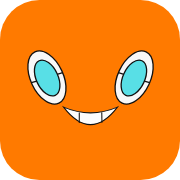
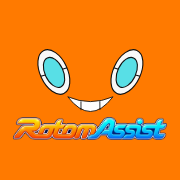
ロゴを置き直したものに差し替え、アイコンを「顔の下にロゴ」に
- ロゴ（白と紺のふち付き）を public/brand/logo.webp に。オレンジの背景でも読めるので黒い帯は外した。元画像は assets/brand/logo-original.png
- アイコン: オレンジの上にロトムの顔、その下にロゴ（app/icon.png 512px、app/apple-icon.png 180px）

Claude-Session: https://claude.ai/code/session_01DxeWjnTQqJBmBJTk9drAmV

diff --git a/app/globals.css b/app/globals.css
@@ -25,8 +25,8 @@ code { font-size: .8rem; word-break: break-all; }
 .app { min-height: 100dvh; }
 main { max-width: 720px; margin: 0 auto; padding: 8px 16px calc(var(--dock-h) + 24px + env(safe-area-inset-bottom)); }
 .topbar { position: sticky; top: 0; z-index: 10; display: flex; align-items: center; justify-content: space-between; max-width: 720px; margin: 0 auto; padding: 10px 16px; background: linear-gradient(var(--bg) 70%, rgba(255, 122, 0, 0)); }
-.logo-wrap { display: inline-flex; align-items: center; background: var(--btn); border-radius: 999px; padding: 7px 14px; box-shadow: 0 2px 8px rgba(60, 25, 0, .2); }
-.logo { height: 26px; width: auto; display: block; }
+.logo-wrap { display: inline-flex; align-items: center; }
+.logo { height: 36px; width: auto; display: block; filter: drop-shadow(0 2px 4px rgba(60, 25, 0, .25)); }
 .icon-btn { width: 44px; height: 44px; padding: 0; border-radius: 50%; display: grid; place-items: center; background: rgba(255, 255, 255, .25); border-color: transparent; color: var(--fg); }
 .icon-btn[aria-expanded="true"] { background: var(--btn); color: var(--on-btn); }
 

diff --git a/app/page.tsx b/app/page.tsx
@@ -517,12 +517,12 @@ function Header({ onSettings, settingsOpen }: { onSettings?: () => void; setting
   );
 }
 
-/** ロゴ（public/brand/logo.webp）。「Rotom」がオレンジなので、背景のオレンジに溶けないよう黒い帯に載せる */
+/** ロゴ（public/brand/logo.webp。元画像は assets/brand/logo-original.png）。白と紺のふち付きなので、オレンジの背景にそのまま載せる */
 function Logo() {
   return (
     <span className="logo-wrap">
       {/* eslint-disable-next-line @next/next/no-img-element */}
-      <img src="/brand/logo.webp" alt="ロトムアシスト" className="logo" width={915} height={120} />
+      <img src="/brand/logo.webp" alt="ロトムアシスト" className="logo" width={831} height={120} />
     </span>
   );
 }

diff --git a/docs/architecture.md b/docs/architecture.md
@@ -58,8 +58,8 @@
 - 聞き取りが「終わった」の知らせ（onend）を返さずに止まることがある。以前は前の聞き取りが残っていると、押しても何もしなかった（2026-10-11 に実機で、6 回目以降に聞かなくなった）。今は、離して 4 秒以内に知らせが来なければ片付け、押したときに前のものが残っていれば捨ててやり直す。指が離れた知らせが来ない場合（pointercancel）も止める。押しっぱなしは 30 秒まで
 - 聞き取りの経過（開始・音声の入り始め・話し始め・離した・終わり方・エラー、読み上げ、開いた端末）を roas.history に kind=event で送る（`/api/history`）。止まった原因を後から調べるため。質問の答えが 25 秒返らなければ打ち切る（「考え中」のままボタンが押せなくなるのを防ぐ）
 - 色: 背景はオレンジ #ff7a00、ボタンは少し薄い黒 #2e2e2e（白い文字）、結果は白いカード。オレンジの上の文字は暗い色（白だと読みにくい）。攻撃側は赤、防御側は青
-- 画面の並び: 上に固定のバー（左にロゴ `public/brand/logo.webp`。「Rotom」がオレンジで背景に溶けるので黒い帯に載せる。右に設定ボタン）→ ロトムの顔と今の状態（「下のボタンを押しながら話してロト」「聞いてるロト」「考え中ロト」）→ 結果のカード（角丸・影）→ さっきの質問。下に固定で、親指で押しやすい横長の「押して話す」と文字入力。細かい設定（タップで開始・短く読む・読み上げない・答えの前の合図・声）は設定ボタンの中
-- アイコン: `app/icon.svg`（タブ）と `app/apple-icon.png`（iPhone のホーム画面、180px）。ロトムの顔。テーマカラーはオレンジ
+- 画面の並び: 上に固定のバー（左にロゴ `public/brand/logo.webp`。白と紺のふち付きでオレンジの背景にそのまま載せる。元画像は `assets/brand/logo-original.png`。右に設定ボタン）→ ロトムの顔と今の状態（「下のボタンを押しながら話してロト」「聞いてるロト」「考え中ロト」）→ 結果のカード（角丸・影）→ さっきの質問。下に固定で、親指で押しやすい横長の「押して話す」と文字入力。細かい設定（タップで開始・短く読む・読み上げない・答えの前の合図・声）は設定ボタンの中
+- アイコン: `app/icon.png`（512px、タブなど）と `app/apple-icon.png`（iPhone のホーム画面、180px。角はiPhoneが丸めるので四角）。オレンジの上にロトムの顔、その下にロゴ。テーマカラーはオレンジ
 - ロトムの顔（`app/RotomFace.tsx`）: 画面の上に両目と口。いただいた絵（右目・口 4 種）を SVG で描き起こした。右目の絵（てっぺんが右に傾く）を見る側の右に、左右反転したものを左に置き、本物のロトムと同じく目のてっぺんが外へ開く形・目の間は目 1 つ分弱・口は両目の間のやや下。ふだんの口は「歯を見せて笑う」、読み上げ中は「口を開けて笑う」「丸く開ける」「閉じて笑う」を 0.13 秒ごとに切り替える。読み上げ中かどうかは、ブラウザの声は開始・終了の知らせ（来ない端末のために 0.3 秒ごとにも確かめる）、Gemini の声は再生の開始・終了で決める
 - 画面を開いたら、まず「このアプリは音が出ます。マナーモード（消音）を解除して、音量を上げてください」を出し、「音を鳴らしてはじめる」で合図の音を鳴らして確かめてもらう（ブラウザは操作の後でないと音を出せないため、この操作で音を使えるようにする）。「音なしで使う」も選べる
 - 合図の音（`public/sounds/rotom.mp3`、約 1.7 秒）は「画面を開いたとき」と「答えの準備ができて読み上げる前」に鳴らす（その分答えは遅れるが、合図があった方がよい）
